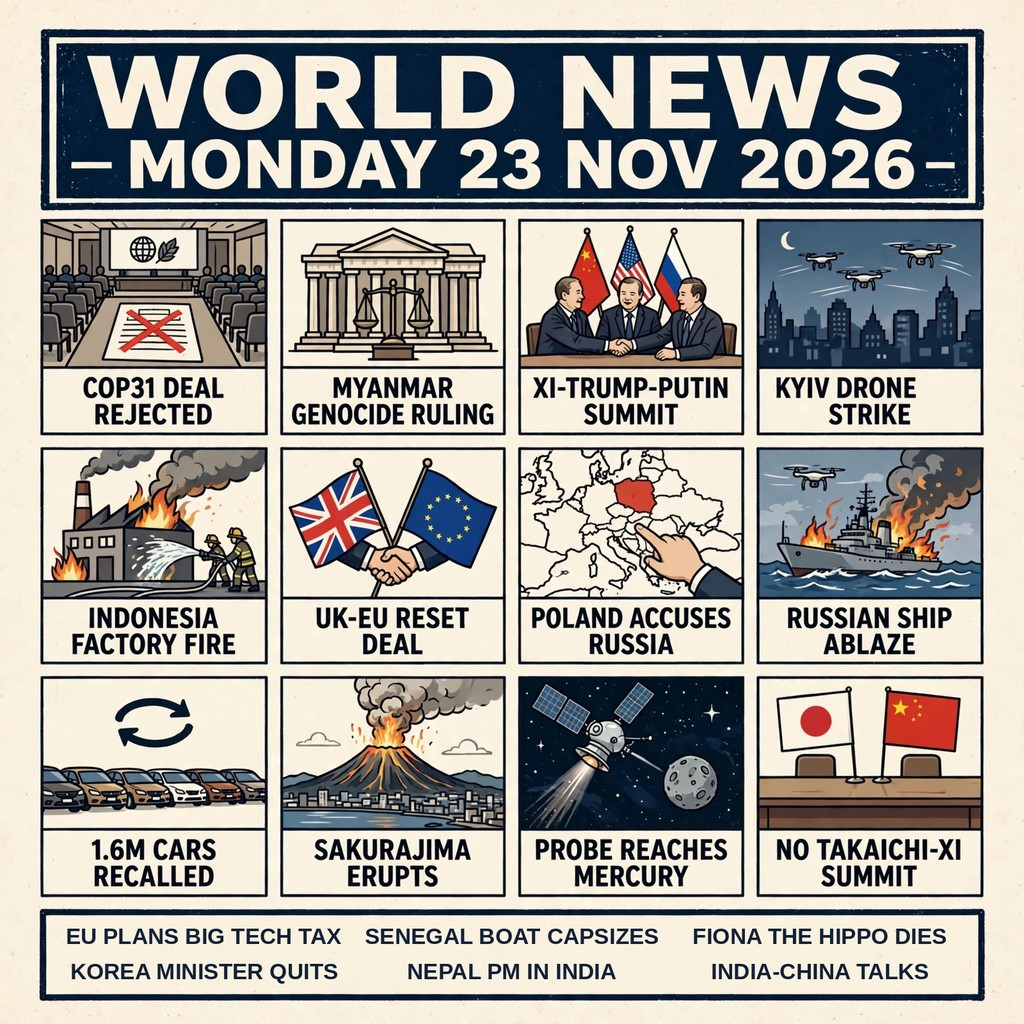
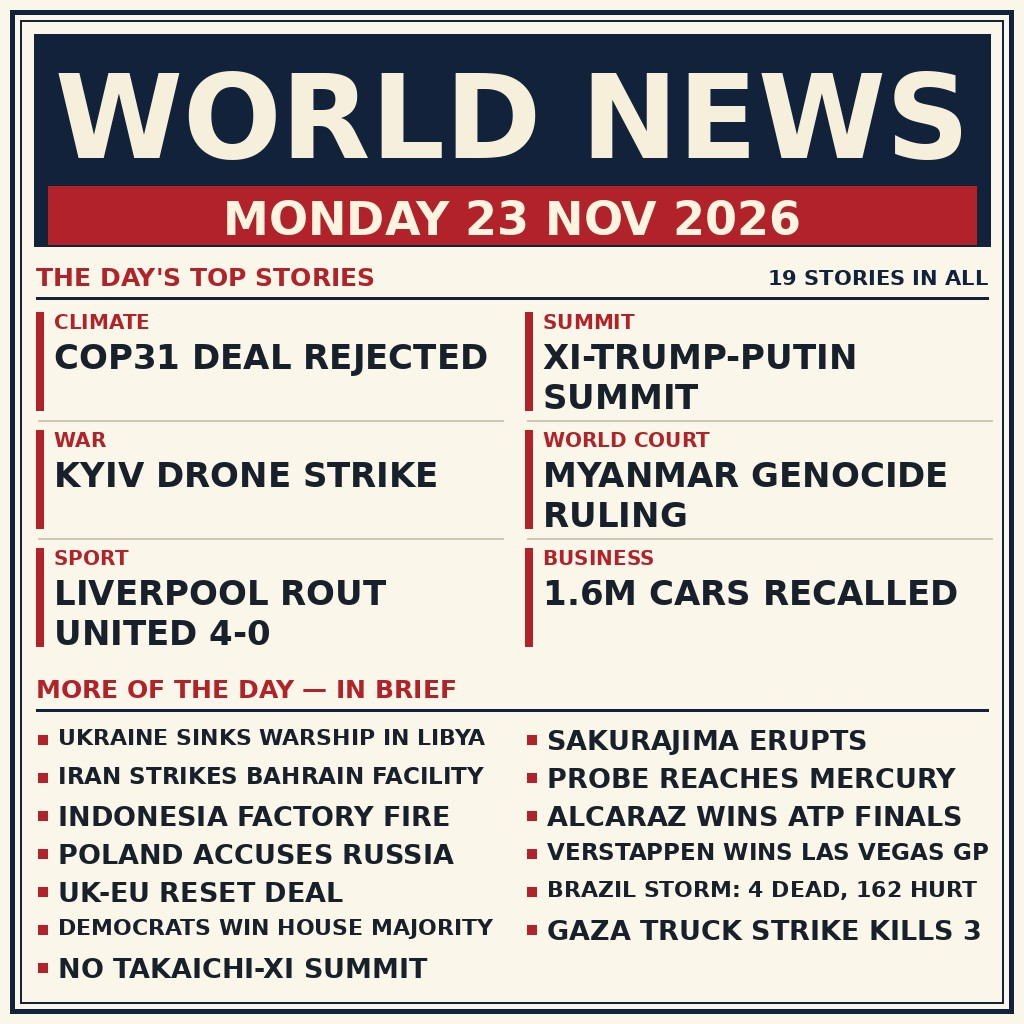
Swap entry image: typographic broadsheet edition (6 top stories + 13 in-brief headlines, 19 stories)

diff --git a/README.md b/README.md
@@ -1,4 +1,4 @@
-# One Day in 28 Stories - Mon 23 Nov 2026
+# One Day in 19 Stories - Mon 23 Nov 2026
 
 [![make.fun · news-image-20261123](https://make.fun/badge/news-image-20261123.svg)](https://make.fun/bounty/news-image-20261123?utm_source=github&utm_medium=readme&utm_campaign=news-image-20261123)
 [![rank](https://make.fun/badge/news-image-20261123/yuumu2/yuumu2-news-image-20261123/rank.svg)](https://make.fun/bounty/news-image-20261123/leaderboard?utm_source=github&utm_medium=readme&utm_campaign=news-image-20261123)
